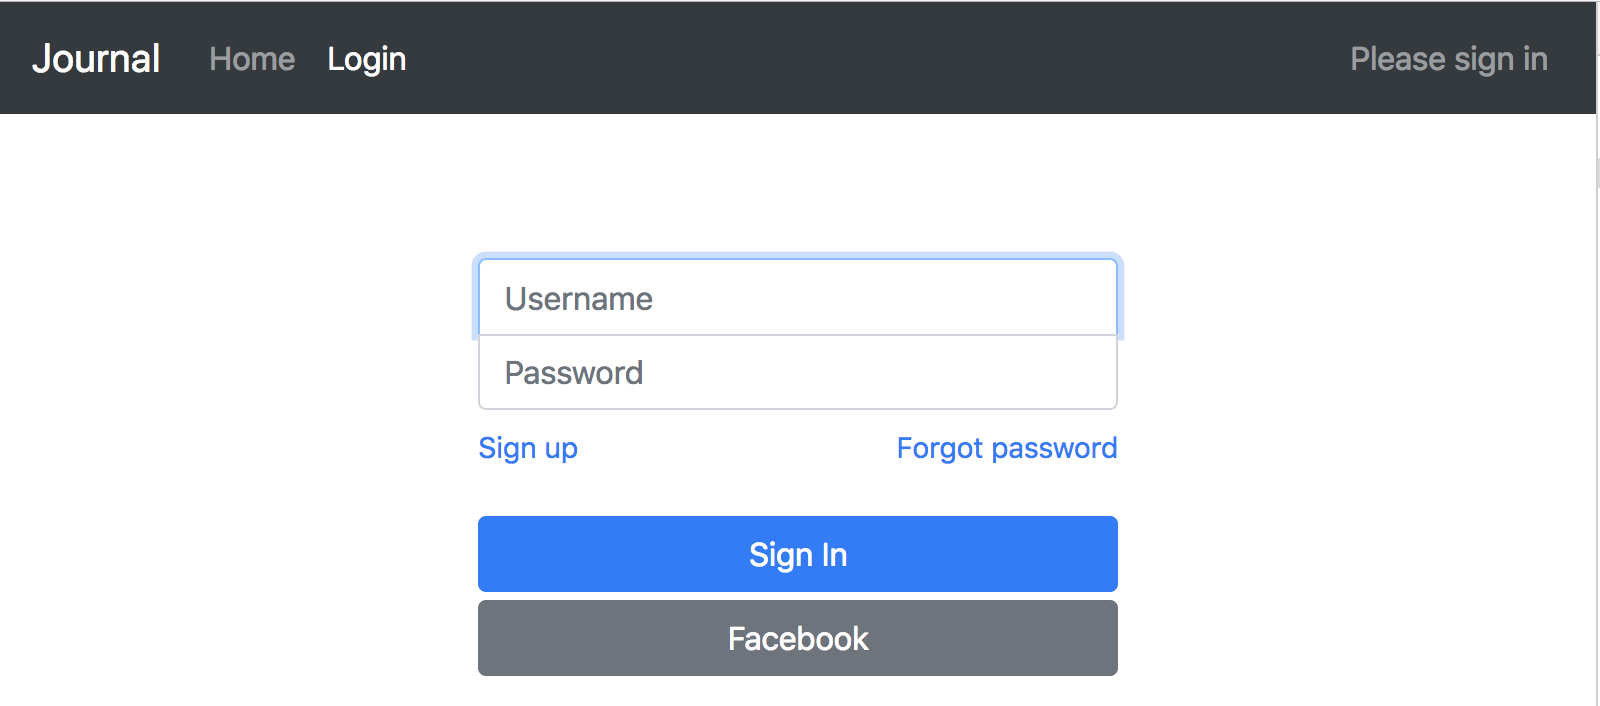
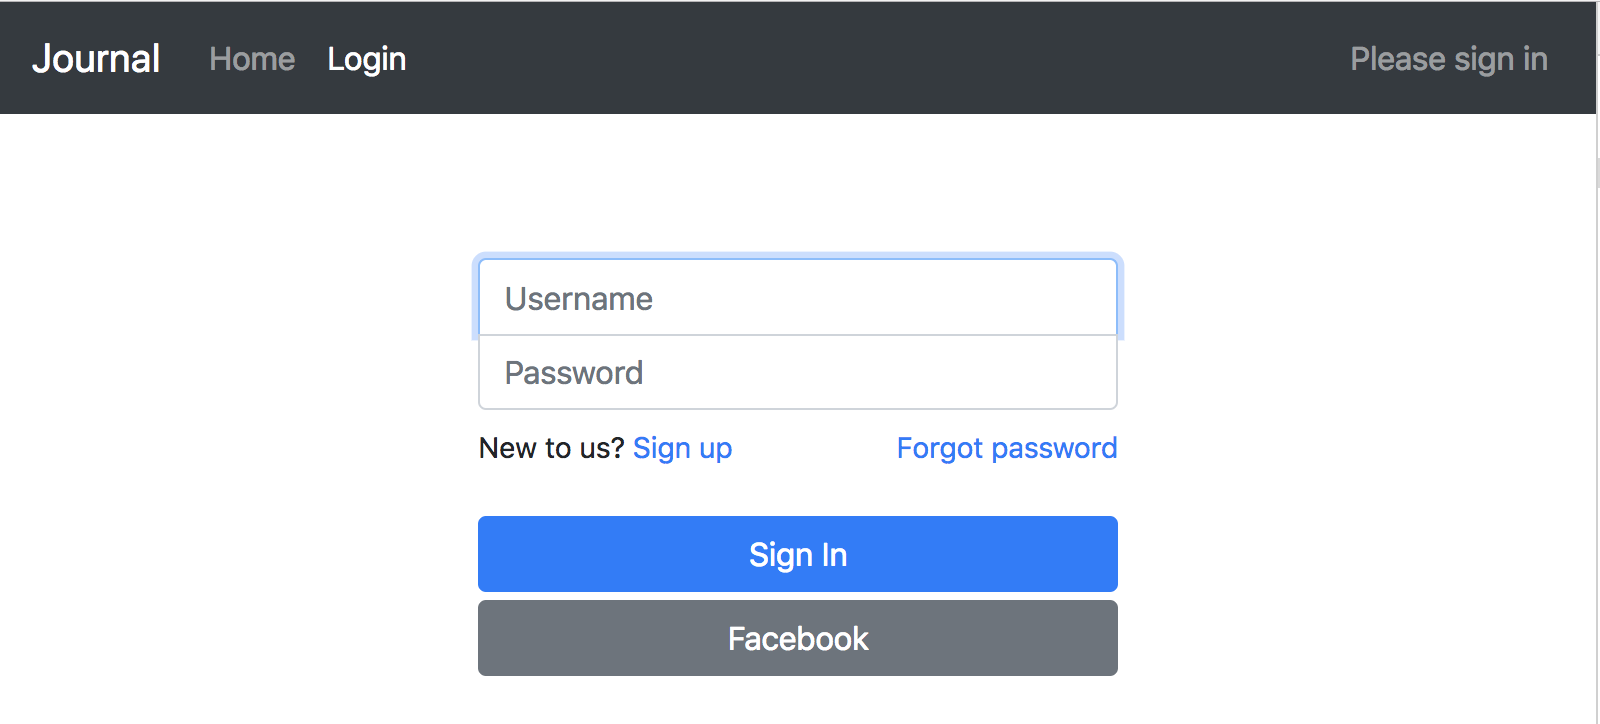
Update step-03 README

diff --git a/step-03/journal/src/components/auth/JSignIn.jsx b/step-03/journal/src/components/auth/JSignIn.jsx
@@ -120,6 +120,7 @@ export default class JSignIn extends Component {
           />
           <Row my="2" style={style.links}>
             <Col text="left">
+              New to us?{' '}
               <BA href="#" preventDefault onClick={() => this.changeState('signUp')}>
                 Sign up
               </BA>

diff --git a/step-03/README.md b/step-03/README.md
@@ -202,7 +202,7 @@ User may forget password. In order to be able to recover password, user has to h
 
 The check may happen in both `<JSignIn>` and `<JConfirmSignIn>`. We show one example, the other is same.
 
-Update `src/components/auth/JSignIn`:
+Update `src/components/auth/JSignIn.jsx`:
 ```
     constructor(props) {
         super(props);
@@ -232,14 +232,19 @@ Update `src/components/auth/JSignIn`:
     }
 ```
 
+Do the same to `src/components/auth/JConfirmSignIn.jsx`.
+
 ## 7. Sign Up
 
 `<JSignIn>` should have a way to go to sign up form. Inside `<Authenticator>` this is achieved by emitting `authState` 'signUp'
 
 ```
-        <Message>
-            New to us? <a onClick={() => this.changeState('signUp')}>Sign Up</a>
-        </Message>
+            <Col text="left">
+              New to us?{' '}
+              <BA href="#" preventDefault onClick={() => this.changeState('signUp')}>
+                Sign up
+              </BA>
+            </Col>
 ```
 
 Now on click we'll see Sign Up form, but it is the default form. Go through the same process create a RegisterForm. Same to other UI components in auth flow.

diff --git a/README.md b/README.md
@@ -4,7 +4,7 @@
 # Journal
 Step by step tutorial to build a personal journal web app with ReactJS + AWS
 
-* [Step 01 - Create a Basic React App](step-01)
+* [Step 01 - Create a Basic React App with Bootstrap](step-01)
 * [Step 02 - Authentication](step-02)
 * [Step 03 - Authentication UI](step-03)
 * [Step 04 - Everyday Journal](step-04)
